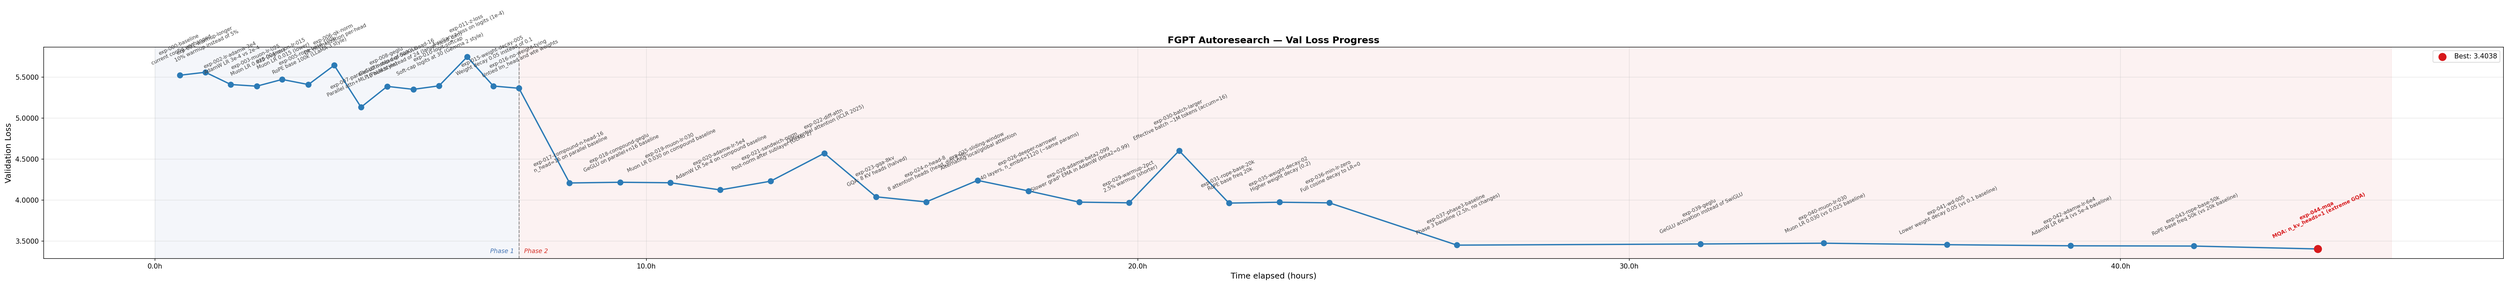
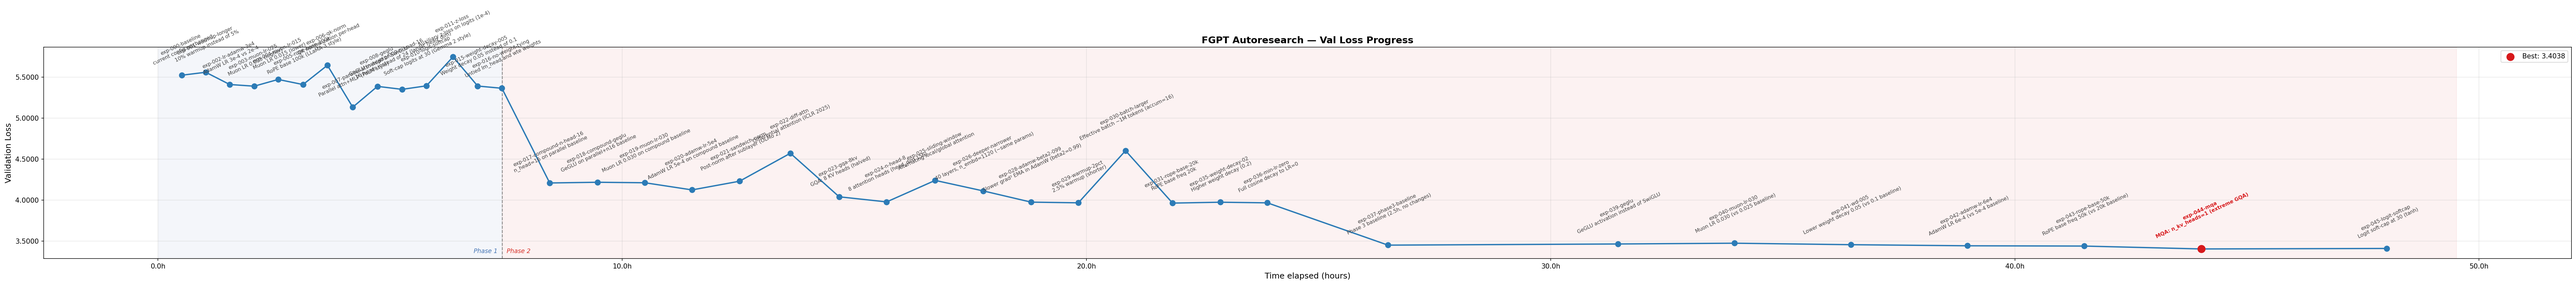
results: exp-046-n-layer-36 | val_loss=3.4521

diff --git a/src/fgpt/model.py b/src/fgpt/model.py
@@ -185,8 +185,6 @@ class FGPT(nn.Module):
 
         x = self.transformer.ln_f(x)
         logits = self.lm_head(x)
-        # Logit soft-cap (Gemini-style): tanh cap at ±30 stabilizes large logit magnitudes
-        logits = 30.0 * torch.tanh(logits / 30.0)
         loss = None
         if targets is not None:
             loss = F.cross_entropy(logits.view(-1, logits.size(-1)), targets.view(-1))

diff --git a/AUTORESEARCH.md b/AUTORESEARCH.md
@@ -223,7 +223,7 @@ Output: `experiments/plots/progress.png`
 | 43 | `exp-043-rope-base-50k` | RoPE base 50k | ✅ done — **merged** (-0.011) |
 | 44 | `exp-044-mqa` | MQA: n_kv_heads=1 | ✅ done — **merged** (-0.047) |
 | 45 | `exp-045-logit-softcap` | Logit soft-cap at 30 | 🔄 running |
-| 46 | `exp-046-n-layer-36` | n_layer=36 (deeper model) | ⏳ queued |
+| 46 | `exp-046-n-layer-36` | n_layer=36 (deeper model) | ✅ done |
 
 ---
 
@@ -236,39 +236,40 @@ Output: `experiments/plots/progress.png`
 | 3 | `exp-043-rope-base-50k` | 3.4391 | RoPE base freq 50k (vs 20k baseline) |
 | 4 | `exp-042-adamw-lr-6e4` | 3.4425 | AdamW LR 6e-4 (vs 5e-4 baseline) |
 | 5 | `exp-037-phase3-baseline` | 3.4504 | Phase 3 baseline (2.5h, no changes) |
-| 6 | `exp-041-wd-005` | 3.4558 | Lower weight decay 0.05 (vs 0.1 baseline) |
-| 7 | `exp-039-geglu` | 3.4646 | GeGLU activation instead of SwiGLU |
-| 8 | `exp-040-muon-lr-030` | 3.4740 | Muon LR 0.030 (vs 0.025 baseline) |
-| 9 | `exp-031-rope-base-20k` | 3.9634 | RoPE base freq 20k |
-| 10 | `exp-036-min-lr-zero` | 3.9664 | Full cosine decay to LR=0 |
-| 11 | `exp-029-warmup-2pct` | 3.9667 | 2.5% warmup (shorter) |
-| 12 | `exp-035-weight-decay-02` | 3.9741 | Higher weight decay (0.2) |
-| 13 | `exp-028-adamw-beta2-099` | 3.9751 | Slower grad² EMA in AdamW (beta2=0.99) |
-| 14 | `exp-024-n-head-8` | 3.9780 | 8 attention heads (head_dim 156) |
-| 15 | `exp-023-gqa-8kv` | 4.0400 | GQA: 8 KV heads (halved) |
-| 16 | `exp-026-deeper-narrower` | 4.1115 | 40 layers, n_embd=1120 (~same params) |
-| 17 | `exp-020-adamw-lr-5e4` | 4.1243 | AdamW LR 5e-4 on compound baseline |
-| 18 | `exp-017-compound-n-head-16` | 4.2090 | n_head=16 on parallel baseline |
-| 19 | `exp-019-muon-lr-030` | 4.2114 | Muon LR 0.030 on compound baseline |
-| 20 | `exp-018-compound-geglu` | 4.2176 | GeGLU on parallel+n16 baseline |
-| 21 | `exp-021-sandwich-norm` | 4.2302 | Post-norm after sublayer (OLMo 2) |
-| 22 | `exp-025-sliding-window` | 4.2402 | Alternating local/global attention |
-| 23 | `exp-022-diff-attn` | 4.5714 | Differential attention (ICLR 2025) |
-| 24 | `exp-030-batch-larger` | 4.6031 | Effective batch ~1M tokens (accum=16) |
-| 25 | `exp-007-parallel-attn-mlp` | 5.1336 | Parallel attn+MLP (PaLM style) |
-| 26 | `exp-009-n-head-16` | 5.3510 | 16 heads instead of 24 (larger head_dim) |
-| 27 | `exp-016-no-weight-tying` | 5.3643 | Untied lm_head and wte weights |
-| 28 | `exp-008-geglu` | 5.3875 | GeGLU instead of SwiGLU |
-| 29 | `exp-003-muon-lr-025` | 5.3898 | Muon LR 0.025 (higher) |
-| 30 | `exp-015-weight-decay-005` | 5.3914 | Weight decay 0.05 instead of 0.1 |
-| 31 | `exp-010-logit-softcap` | 5.3939 | Soft-cap logits at 30 (Gemma 2 style) |
-| 32 | `exp-005-rope-base-100k` | 5.4097 | RoPE base 100k (LLaMA-3 style) |
-| 33 | `exp-002-lr-adamw-3e4` | 5.4101 | AdamW LR 3e-4 vs 2e-4 |
-| 34 | `exp-004-muon-lr-015` | 5.4718 | Muon LR 0.015 (lower) |
-| 35 | `exp-000-baseline` | 5.5235 | current config unchanged |
-| 36 | `exp-001-warmup-longer` | 5.5596 | 10% warmup instead of 5% |
-| 37 | `exp-006-qk-norm` | 5.6449 | QK normalization per-head |
-| 38 | `exp-011-z-loss` | 5.7478 | Auxiliary z-loss on logits (1e-4) |
+| 6 | `exp-046-n-layer-36` | 3.4521 | Deeper model: n_layer=36 |
+| 7 | `exp-041-wd-005` | 3.4558 | Lower weight decay 0.05 (vs 0.1 baseline) |
+| 8 | `exp-039-geglu` | 3.4646 | GeGLU activation instead of SwiGLU |
+| 9 | `exp-040-muon-lr-030` | 3.4740 | Muon LR 0.030 (vs 0.025 baseline) |
+| 10 | `exp-031-rope-base-20k` | 3.9634 | RoPE base freq 20k |
+| 11 | `exp-036-min-lr-zero` | 3.9664 | Full cosine decay to LR=0 |
+| 12 | `exp-029-warmup-2pct` | 3.9667 | 2.5% warmup (shorter) |
+| 13 | `exp-035-weight-decay-02` | 3.9741 | Higher weight decay (0.2) |
+| 14 | `exp-028-adamw-beta2-099` | 3.9751 | Slower grad² EMA in AdamW (beta2=0.99) |
+| 15 | `exp-024-n-head-8` | 3.9780 | 8 attention heads (head_dim 156) |
+| 16 | `exp-023-gqa-8kv` | 4.0400 | GQA: 8 KV heads (halved) |
+| 17 | `exp-026-deeper-narrower` | 4.1115 | 40 layers, n_embd=1120 (~same params) |
+| 18 | `exp-020-adamw-lr-5e4` | 4.1243 | AdamW LR 5e-4 on compound baseline |
+| 19 | `exp-017-compound-n-head-16` | 4.2090 | n_head=16 on parallel baseline |
+| 20 | `exp-019-muon-lr-030` | 4.2114 | Muon LR 0.030 on compound baseline |
+| 21 | `exp-018-compound-geglu` | 4.2176 | GeGLU on parallel+n16 baseline |
+| 22 | `exp-021-sandwich-norm` | 4.2302 | Post-norm after sublayer (OLMo 2) |
+| 23 | `exp-025-sliding-window` | 4.2402 | Alternating local/global attention |
+| 24 | `exp-022-diff-attn` | 4.5714 | Differential attention (ICLR 2025) |
+| 25 | `exp-030-batch-larger` | 4.6031 | Effective batch ~1M tokens (accum=16) |
+| 26 | `exp-007-parallel-attn-mlp` | 5.1336 | Parallel attn+MLP (PaLM style) |
+| 27 | `exp-009-n-head-16` | 5.3510 | 16 heads instead of 24 (larger head_dim) |
+| 28 | `exp-016-no-weight-tying` | 5.3643 | Untied lm_head and wte weights |
+| 29 | `exp-008-geglu` | 5.3875 | GeGLU instead of SwiGLU |
+| 30 | `exp-003-muon-lr-025` | 5.3898 | Muon LR 0.025 (higher) |
+| 31 | `exp-015-weight-decay-005` | 5.3914 | Weight decay 0.05 instead of 0.1 |
+| 32 | `exp-010-logit-softcap` | 5.3939 | Soft-cap logits at 30 (Gemma 2 style) |
+| 33 | `exp-005-rope-base-100k` | 5.4097 | RoPE base 100k (LLaMA-3 style) |
+| 34 | `exp-002-lr-adamw-3e4` | 5.4101 | AdamW LR 3e-4 vs 2e-4 |
+| 35 | `exp-004-muon-lr-015` | 5.4718 | Muon LR 0.015 (lower) |
+| 36 | `exp-000-baseline` | 5.5235 | current config unchanged |
+| 37 | `exp-001-warmup-longer` | 5.5596 | 10% warmup instead of 5% |
+| 38 | `exp-006-qk-norm` | 5.6449 | QK normalization per-head |
+| 39 | `exp-011-z-loss` | 5.7478 | Auxiliary z-loss on logits (1e-4) |
 
 *Auto-updated by `run_experiment.py` after each run — see `experiments/results.jsonl` for full data.*
 

diff --git a/experiments/notes/exp-046-n-layer-36.md b/experiments/notes/exp-046-n-layer-36.md
@@ -1,0 +1,27 @@
+# exp-046-n-layer-36
+
+**Description:** Deeper model: n_layer=36  
+**Val loss:** 3.4521  
+**Duration:** 150.3 min  
+**Seed:** 42  
+**Date:** 2026-04-14 14:07  
+
+## Hyperparameters
+
+| Parameter | Value |
+|-----------|-------|
+| AdamW LR | 0.0006 |
+| Muon LR | 0.025 |
+| Warmup | 2.5% |
+| Accum steps | 8 |
+| Min LR ratio | 0.05 |
+| RoPE base | 50000 |
+| n_head | 8 |
+
+## Reasoning
+
+More layers increases model depth and representational capacity. Current best is 32 layers. Adding 4 layers (~12% deeper) keeps parameter count similar to prior depth experiments. Phase 2 exp-026 (deeper+narrower) lost, but that also changed width. This tests depth alone with same n_embd=1248.
+
+## Outcome
+
+**Better than baseline** (3.4521 vs 5.5235, -2.0713 better than baseline).
